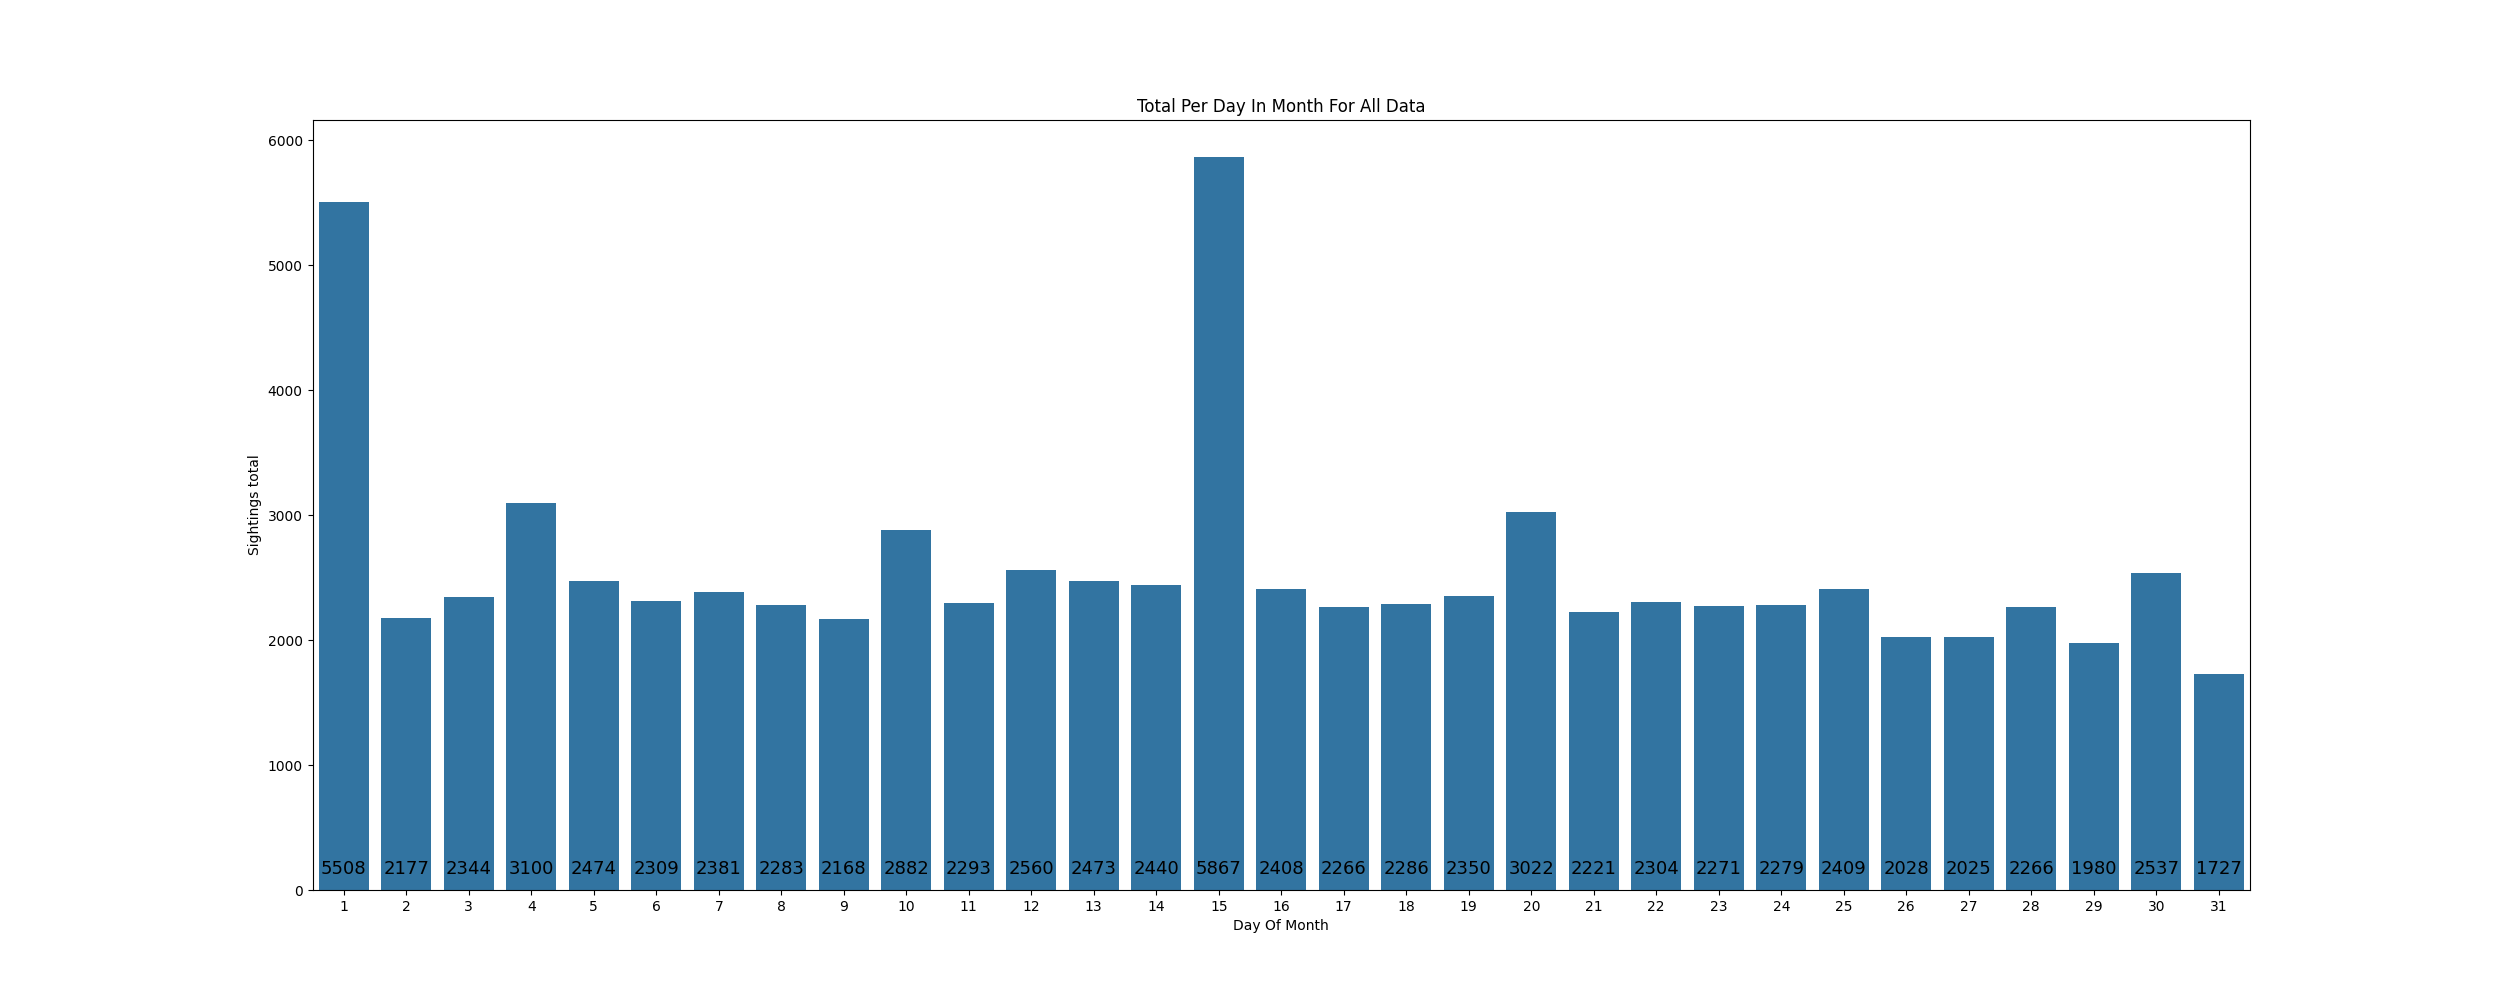
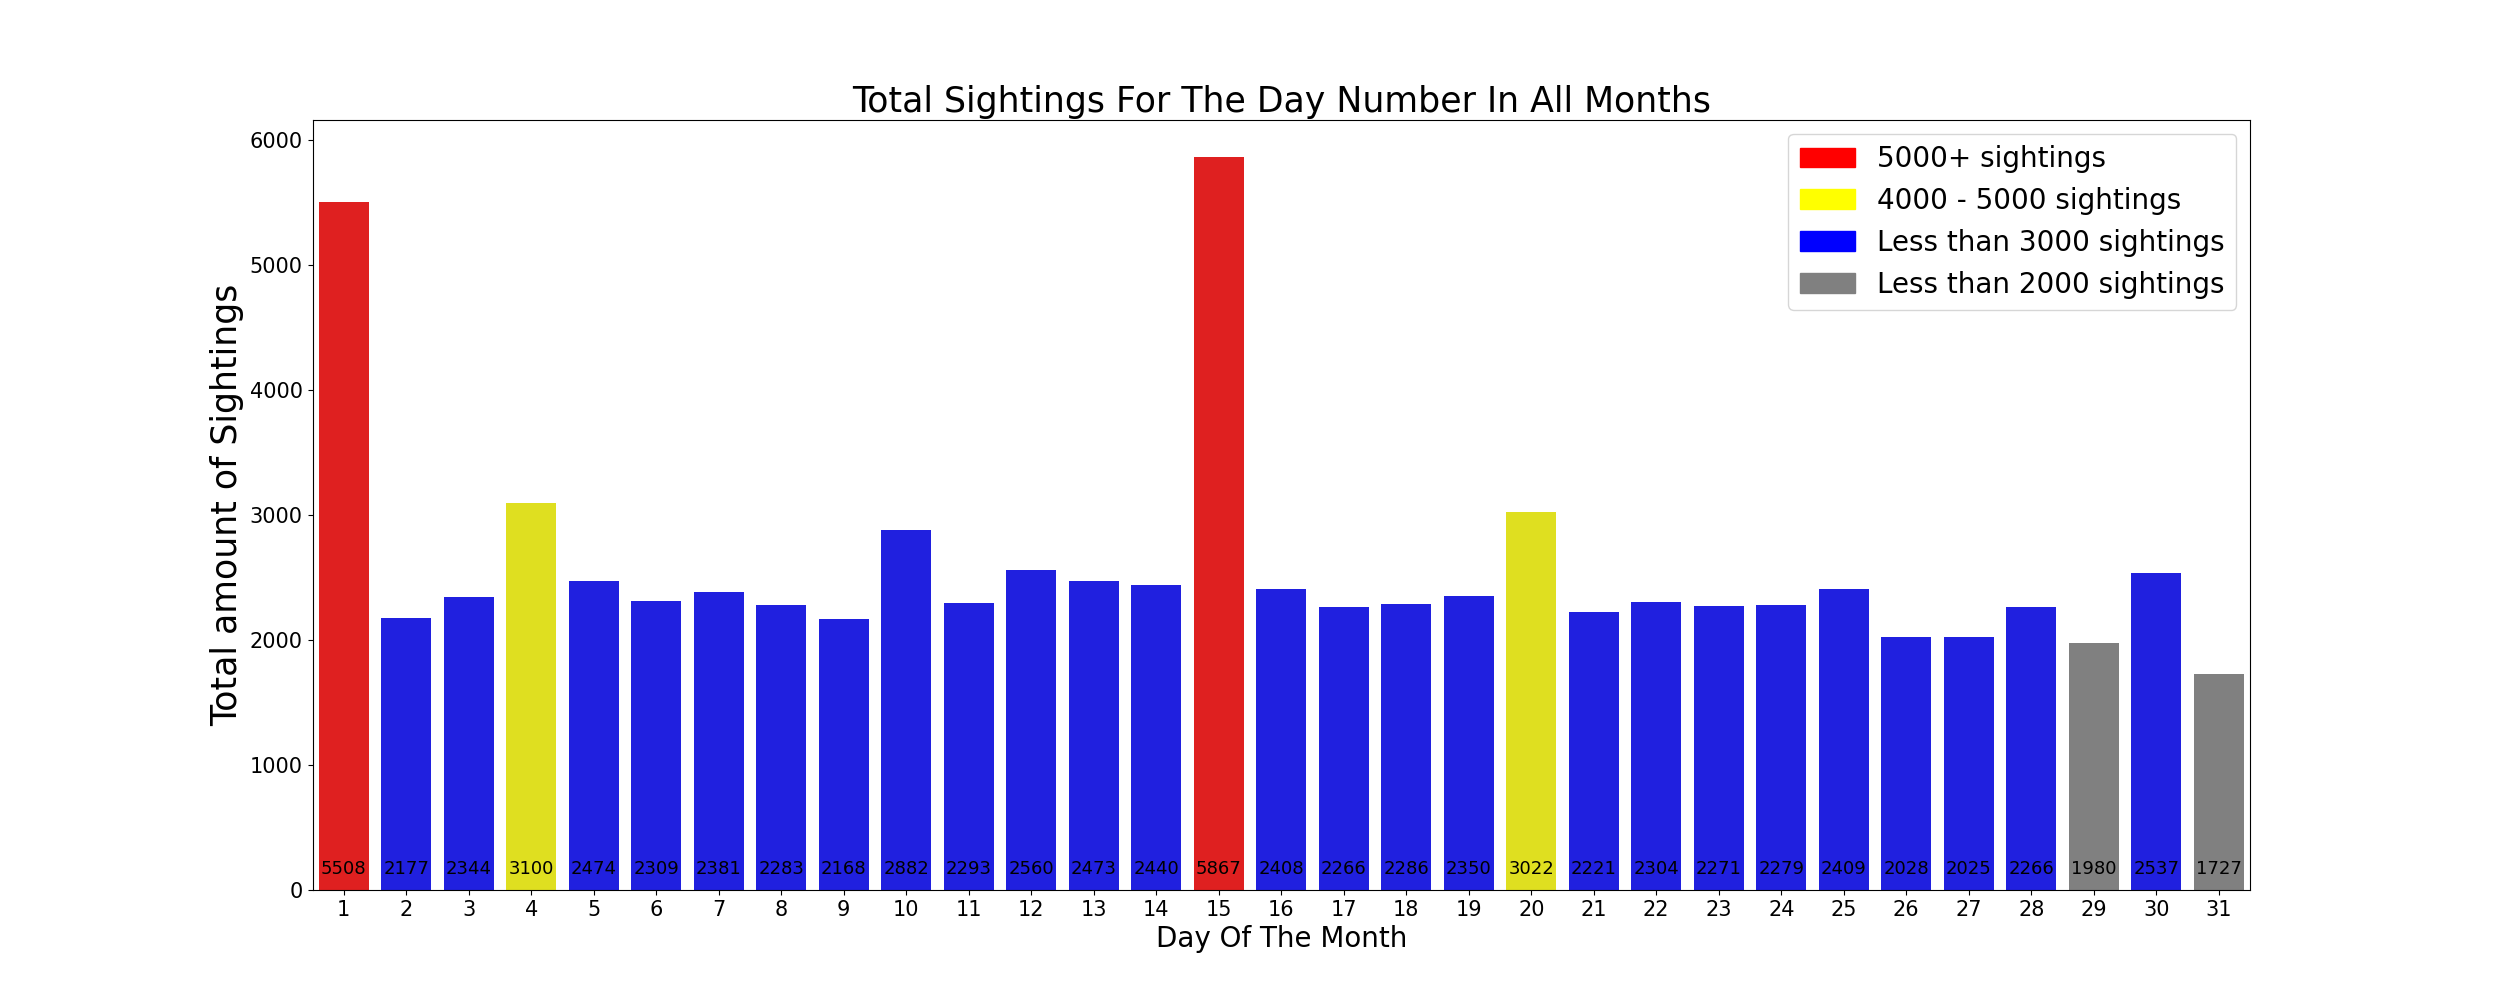
updated plots fonts and colors

diff --git a/temporal_patterns_worldwide.py b/temporal_patterns_worldwide.py
@@ -9,13 +9,15 @@ TODO:
     - Seasonal trend of sightings
 
     TODO: DAY OF WEEK PLOT
-    TODO: Time of day plot
 """
 
 import pandas as pd
 import matplotlib.pyplot as plt
 import seaborn as sns
 from create_df import fetch_data
+
+# For custom legend labels
+import matplotlib.patches as mpatches
 
 # prepare and plot sightings per month day
 def prepare_day_of_month():
@@ -47,9 +49,24 @@ def day_of_month_bar(day_of_month, save=False):
     # size of plot
     plt.figure(figsize=(25, 10))
 
+    # Function to determine color based on values
+    def get_color(value):
+        if value >= 5000:
+            return "red"
+
+        elif 3000 < value < 5000:
+            return "yellow"
+
+        elif 2000 < value < 3000:
+            return "blue"
+
+        else:
+            return 'grey'
+    colors = day_of_month['Per_Day_Month'].apply(get_color).to_list()
+
     # Seaborn creates the bar plot, ax is the seaborn generated plot object
     # x = horizontal, y = vertical, data= tells where to get the data from
-    ax = sns.barplot(x='day_of_month', y='Per_Day_Month', data=day_of_month)
+    ax = sns.barplot(x='day_of_month', y='Per_Day_Month', data=day_of_month, hue='day_of_month', palette=colors)
 
     # Get the positions of the bars
     bar_positions = ax.get_xticks()
@@ -61,13 +78,23 @@ def day_of_month_bar(day_of_month, save=False):
                     (position, 100),  # Lifts the numbers off the bottom of x-axis in plot
                     ha='center', va='bottom', fontsize=13, color='black')
 
+    # Define custom legend labels
+    red_patch = mpatches.Patch(color='red', label='5000+ sightings')
+    yellow_patch = mpatches.Patch(color='yellow', label='4000 - 5000 sightings')
+    blue_patch = mpatches.Patch(color='blue', label='Less than 3000 sightings')
+    grey_patch = mpatches.Patch(color='grey', label='Less than 2000 sightings')
+    # Add the custom legend to the plot
+    plt.legend(handles=[red_patch, yellow_patch, blue_patch, grey_patch], fontsize=20)
 
     # x-axis label
-    plt.xlabel('Day Of Month')
+    plt.xlabel('Day Of The Month', fontsize=20)
     # y-axis label
-    plt.ylabel('Sightings total')
+    plt.ylabel('Total amount of Sightings', fontsize=25)
     # title
-    plt.title('Total Per Day In Month For All Data')
+    plt.title('Total Sightings For The Day Number In All Months', fontsize=25)
+
+    plt.xticks(fontsize=15)
+    plt.yticks(fontsize=15)
 
     # Save plot option
     if save:
@@ -94,7 +121,7 @@ def prepare_day_of_week():
 # TODO: ADD DAY OF THE WEEK PLOT
 
 
-# TODO: ADD TIME OF DAY
+# Events Per Hour of the Day
 def prepare_time_day():
     rows, columns = fetch_data()
     df = pd.DataFrame(rows, columns=columns)
@@ -114,7 +141,8 @@ def prepare_time_day():
     # Remove # to test print
     # print(hourly_events)
 
-def time_day_line(hourly_events, save=False):
+# Events per hour plot
+def time_hourly_bar(hourly_events, save=False):
     plt.figure(figsize=(20, 10))
     ax = sns.barplot(x='formatted_time', y='event_count', data=hourly_events)
 
@@ -129,8 +157,8 @@ def time_day_line(hourly_events, save=False):
                     ha='center', va='bottom', fontsize=13, color='black')
 
     plt.xlabel('Time of Day', fontsize=15)
-    plt.ylabel('Total amount of Sightings', fontsize=28)
-    plt.title('Amount of sightings per hour', fontsize=28)
+    plt.ylabel('Total Amount of Sightings', fontsize=28)
+    plt.title('Amount of Sightings Rer Hour', fontsize=28)
     plt.xticks(rotation=45, fontsize=15)
 
     if save:
@@ -148,5 +176,5 @@ def time_day_line(hourly_events, save=False):
 # events_per_day_week = prepare_day_of_week()
 
 # EVENTS PER HOUR OF THE DAY (12-hour format)
-# events_per_hour = prepare_time_day()
-# time_day_line(events_per_hour)
+#events_per_hour = prepare_time_day()
+#time_hourly_bar(events_per_hour)

diff --git a/events_in_us.py b/events_in_us.py
@@ -17,6 +17,7 @@ import matplotlib.pyplot as plt
 import seaborn as sns
 from create_df import fetch_data
 
+# Events Per State in US
 def prep_data_states_us():
     # Fetch Data
     rows, columns = fetch_data()
@@ -37,8 +38,10 @@ def prep_data_states_us():
     - Create a copy of DF, avoids SettingWithCopyWarning
     - Groups states with na values together, names them 'Unknown (No na values in this new df (filtered_df))
     - Remove # below to run and run test print'''
-    # filtered_df = filtered_df.copy()
+    filtered_df = filtered_df.copy()
     # filtered_df['state'] = filtered_df['state'].fillna('Unknown')
+
+    filtered_df['state'] = filtered_df['state'].str.upper()
 
     # Remove # to test print the data frame
     # print(filtered_df)
@@ -54,10 +57,10 @@ def prep_data_states_us():
 
     return state_count
 
-
+# Plot for Events per State
 def states_us_barplot(state_count, save=False):
     # Sets size of plot
-    plt.figure(figsize=(30, 8))
+    plt.figure(figsize=(25, 8))
 
     # Seaborn bar plot, x = horizontal, y = vertical, data= tells where to get the data from
     # ax is a Seaborn generated plot object
@@ -75,11 +78,14 @@ def states_us_barplot(state_count, save=False):
                     ha='center', va='bottom', fontsize=10, color='black')
 
     # make x-axis label
-    plt.xlabel('States')
+    plt.xlabel('States', fontsize=20)
     # make y-axis label
-    plt.ylabel('Events Per State')
+    plt.ylabel('Total Sightings', fontsize=30)
     # make title
-    plt.title('Events per State in the US')
+    plt.title('Total Sightings In Each State In US', fontsize=30)
+
+    plt.xticks(fontsize=15)
+    plt.yticks(fontsize=15)
 
     if save:
         plt.savefig('events_per_state_us.png')
@@ -87,5 +93,5 @@ def states_us_barplot(state_count, save=False):
         plt.show()
 
 # Remove # below to run
-# events_per_state = prep_data_states_us()
-# states_us_barplot(events_per_state)
+#events_per_state = prep_data_states_us()
+#states_us_barplot(events_per_state)

diff --git a/events_country.py b/events_country.py
@@ -27,6 +27,7 @@ def prepare_data_country():
 
     # convert to categorical data type
     df['country'] = df['country'].astype('category')
+    df['country'] = df['country'].str.upper()
 
     # Group events by country
     events_per_country = df.groupby('country', observed=False).size().reset_index(name='Events_per_country')
@@ -39,18 +40,21 @@ def prepare_data_country():
 def country_bar_plot(events_per_country, save=False):
 
     # Size of plot
-    plt.figure(figsize=(8, 12))
+    plt.figure(figsize=(8, 8))
 
     # Seaborn creates the bar plot
     # x = horizontal, y = vertical, data= tells where to get the data from
     sns.barplot(x='country', y='Events_per_country', data=events_per_country)
 
     # X-Axis label
-    plt.xlabel('Country')
+    plt.xlabel('')
     # Y-Axis label
-    plt.ylabel('Events Per Country')
+    plt.ylabel('Total Sightings', fontsize=20)
     # Title of plot
-    plt.title('Number Of Events Reported Per Country')
+    plt.title('Total Sightings Per Country', fontsize=25)
+
+    plt.xticks(fontsize=20)
+    plt.yticks(fontsize=12)
 
     # if save for saving plot as .png
     if save:
@@ -58,3 +62,7 @@ def country_bar_plot(events_per_country, save=False):
 
     else:
         plt.show()
+
+# Remove # to view plot
+#events_country = prepare_data_country()
+#country_bar_plot(events_country)

diff --git a/show_plots.py b/show_plots.py
@@ -9,7 +9,7 @@ from create_df import fetch_data
 from events_per_year_plot import prepare_data_year, bar_plot
 from events_country import prepare_data_country, country_bar_plot
 from events_in_us import prep_data_states_us, states_us_barplot
-from temporal_patterns_worldwide import prepare_day_of_month, day_of_month_bar, prepare_time_day, time_day_line
+from temporal_patterns_worldwide import prepare_day_of_month, day_of_month_bar, prepare_time_day, time_hourly_bar
 
 def show_data():
     rows, columns = fetch_data()
@@ -140,15 +140,15 @@ def main():
         *    2. Save plot as .png                   *
         *********************************************
         """)
-        user = input("Enter choice")
+        user = input("Enter choice: ")
         if user == '1':
             print('Loading Plot...')
             events_per_hour = prepare_time_day()
-            time_day_line(events_per_hour)
+            time_hourly_bar(events_per_hour)
         if user == '2':
             print('Saving Plot....')
             events_per_hour = prepare_time_day()
-            time_day_line(events_per_hour, save=True)
+            time_hourly_bar(events_per_hour, save=True)
             print('Plot Saved Successfully')
 
 if __name__ == '__main__':

diff --git a/events_per_year_plot.py b/events_per_year_plot.py
@@ -55,25 +55,26 @@ def prepare_data_year():
 # Make Bar Plot with data, Uses events_per_year as params
 def bar_plot(events_per_year, save=False):
     # Sets size of plot
-    plt.figure(figsize=(15, 8))
+    plt.figure(figsize=(20, 8))
 
     # Seaborn(sns) creates the bar plot
     # x = horizontal, y = vertical, data= tells where to get the data from
     sns.barplot(x='year', y='Number_of_events', data=events_per_year)
 
     # Make x-axis label
-    plt.xlabel('Year')
+    plt.xlabel('Year', fontsize=20)
     # Make y-axis label
-    plt.ylabel('Events per year')
+    plt.ylabel('Total Sightings', fontsize=25)
     # Make Title of plot
-    plt.title('Events per year')
+    plt.title('Events Per Year\n1931 - 2014', fontsize=25)
 
     # Define the limits of the plot
     # Sets the highest value to 8,000 to ensure it scales right
     plt.ylim(0, 8000)
 
     # Rotates the labels 45 degrees to make them easier to read
-    plt.xticks(rotation=85)
+    plt.xticks(rotation=80, fontsize=12)
+    plt.yticks(fontsize=15)
 
     if save:
         plt.savefig('events_per_year.png')

diff --git a/non_us_data.py b/non_us_data.py
@@ -1,0 +1,2 @@
+# This file will be for non US data
+# US has most of the data, looking for insights from other countries
